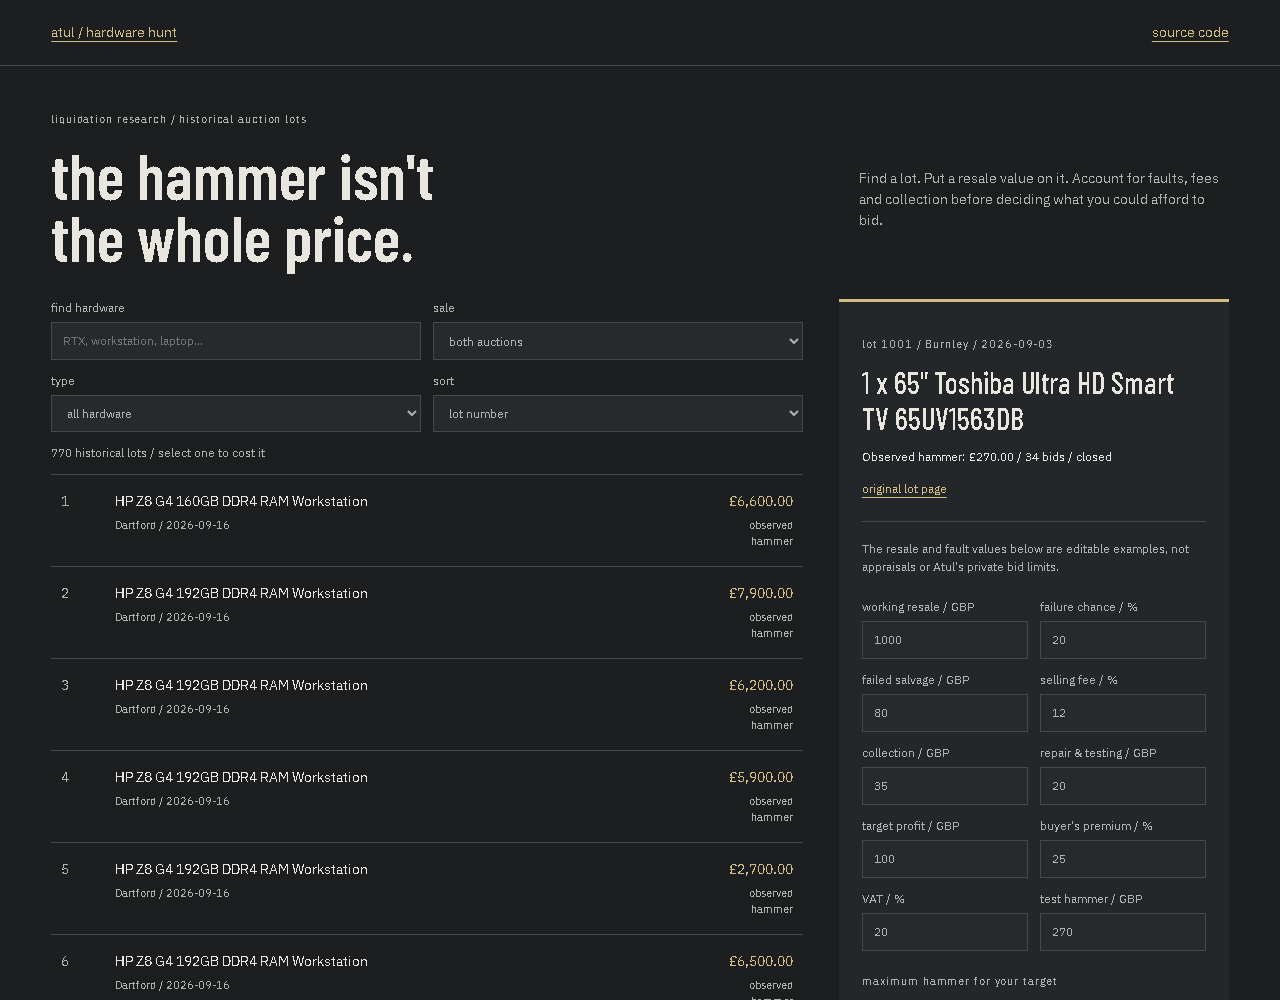
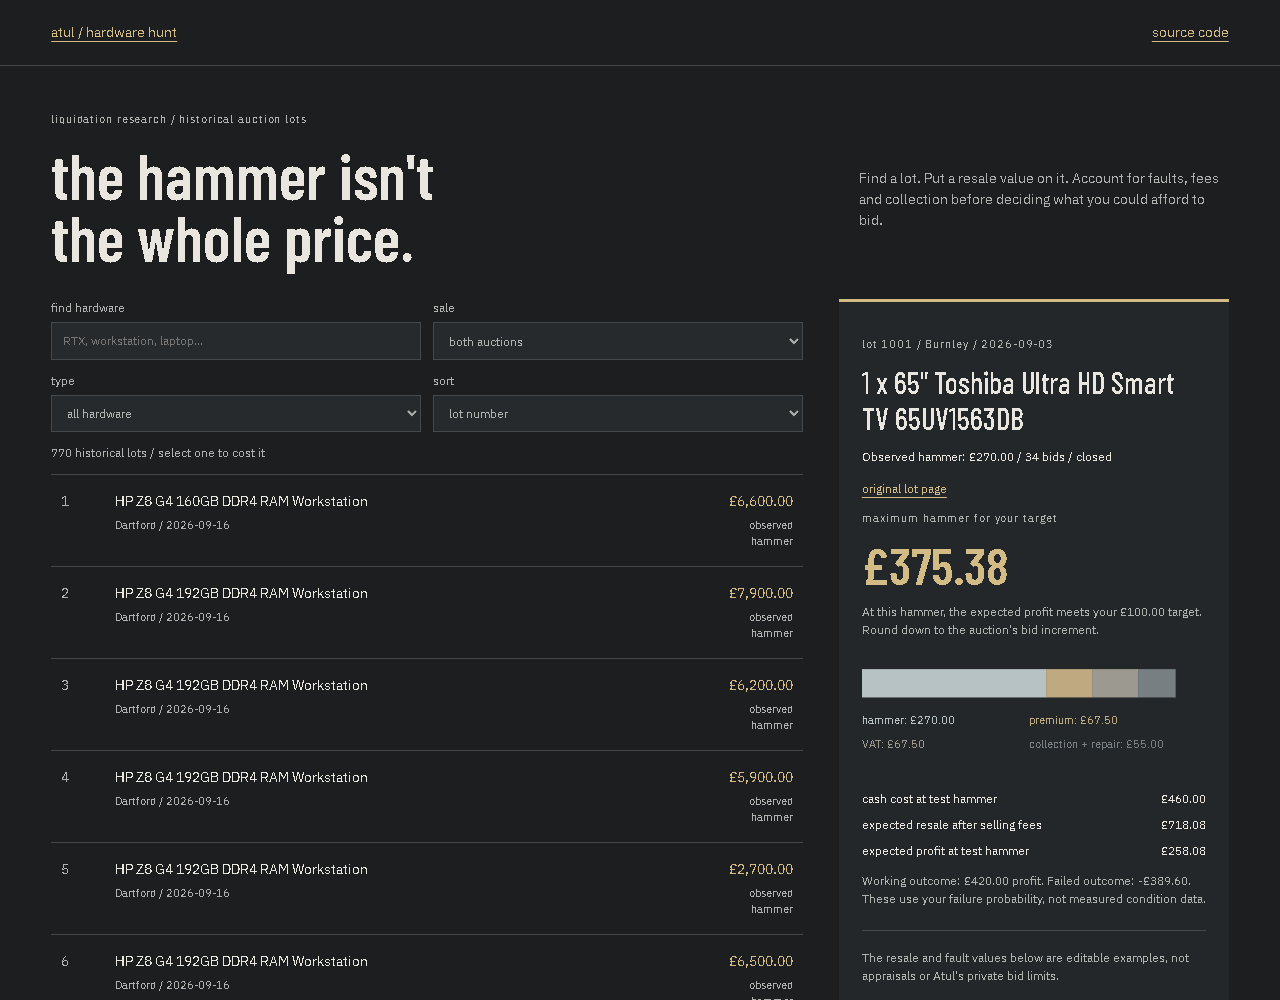
Put bid limits first and fix mobile lot navigation

Changed region(s): [[0.6562, 0.527, 0.9375, 0.992], [0.9062, 0.775, 0.9375, 0.806]]

diff --git a/examples/portfolio/index.html b/examples/portfolio/index.html
@@ -61,18 +61,33 @@
                         ><span id="page"></span><button id="next">next</button>
                     </div>
                 </section>
-                <aside>
+                <aside id="bid-calculator">
+                    <a class="back-to-results" href="#lots">back to lots</a>
                     <p class="eyebrow" id="lot-sale"></p>
                     <h2 id="lot-title">select a lot</h2>
                     <p id="lot-result"></p>
                     <a id="lot-source" target="_blank" rel="noopener noreferrer"
                         >original lot page</a
                     >
+                    <div id="result">
+                        <p class="eyebrow">maximum hammer for your target</p>
+                        <strong id="maximum"></strong>
+                        <p id="verdict"></p>
+                        <svg
+                            id="waterfall"
+                            viewBox="0 0 340 110"
+                            role="img"
+                            aria-label="Hammer, premium, VAT and fixed costs"
+                        ></svg>
+                        <dl id="breakdown"></dl>
+                        <p id="downside"></p>
+                    </div>
                     <p class="assumption-note">
                         The resale and fault values below are editable examples,
                         not appraisals or Atul's private bid limits.
                     </p>
                     <form id="calculator">
+                        <h3>adjust your assumptions</h3>
                         <div class="inputs">
                             <label
                                 >working resale / GBP<input
@@ -143,19 +158,6 @@
                         </div>
                     </form>
                     <p id="error" role="alert"></p>
-                    <div id="result">
-                        <p class="eyebrow">maximum hammer for your target</p>
-                        <strong id="maximum"></strong>
-                        <p id="verdict"></p>
-                        <svg
-                            id="waterfall"
-                            viewBox="0 0 340 110"
-                            role="img"
-                            aria-label="Hammer, premium, VAT and fixed costs"
-                        ></svg>
-                        <dl id="breakdown"></dl>
-                        <p id="downside"></p>
-                    </div>
                     <button id="save">save to bid sheet</button>
                     <p id="saved-status" role="status"></p>
                 </aside>

diff --git a/examples/portfolio/style.css b/examples/portfolio/style.css
@@ -277,3 +277,16 @@ footer {
         }
     }
 }
+
+#bid-calculator {
+    scroll-margin-top: 18px;
+}
+.back-to-results {
+    display: none;
+}
+@media (max-width: 850px) {
+    .back-to-results {
+        display: inline-block;
+        margin-bottom: 15px;
+    }
+}

diff --git a/tools/browser_audit.py b/tools/browser_audit.py
@@ -43,6 +43,10 @@ try:
         page.screenshot(path=str(ROOT/'examples/portfolio/preview.png'))
         page.set_viewport_size({'width':390,'height':844})
         assert page.evaluate('document.documentElement.scrollWidth<=innerWidth+1'),'mobile overflow'
+        page.locator('#lots [data-id]').first.click()
+        assert page.locator('#lot-title').bounding_box()['y'] < 500
+        page.locator('.back-to-results').click()
+        page.wait_for_function('document.querySelector("#lots").getBoundingClientRect().top < 100')
         assert not errors,errors
         print('PASS: 770 real lots, filters, actual sale fees, custom costs, saved bid sheet, CSV and mobile')
         browser.close()
